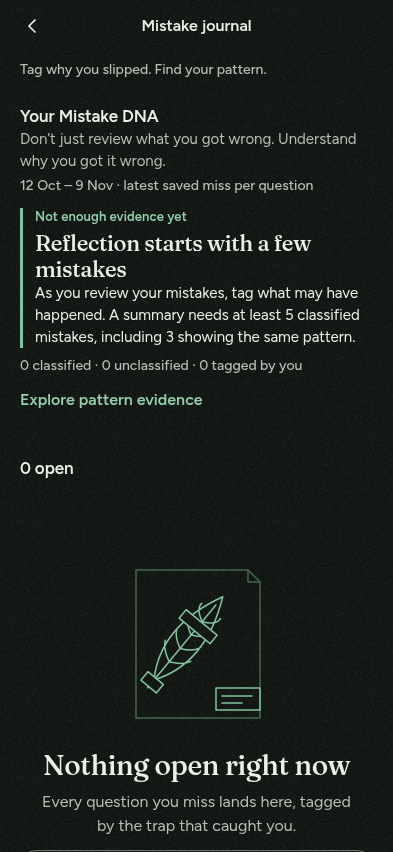
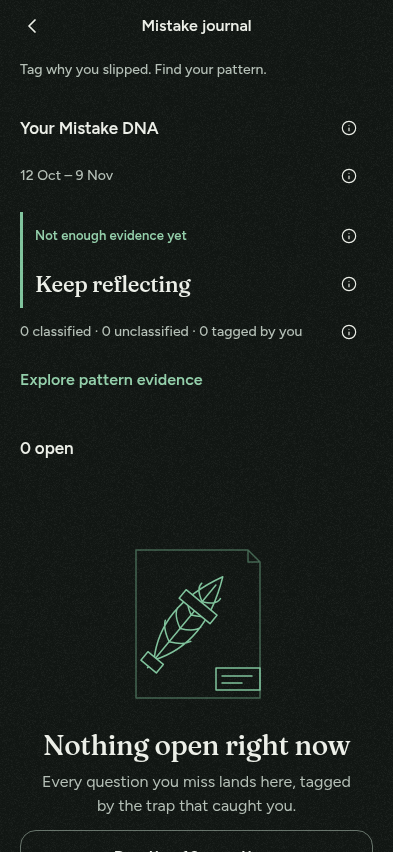
Keep Mistake DNA concise with optional information disclosures

Changed region(s): [[0.0305, 0.1221, 0.916, 0.4883], [0.0916, 0.6408, 0.916, 1.0], [0.0305, 0.5188, 0.1832, 0.5798]]

diff --git a/mobile/src/components/mistakeDNA.tsx b/mobile/src/components/mistakeDNA.tsx
@@ -4,10 +4,31 @@ import { DNA_COPY, type MistakeDNA } from '../engine/mistakeDNA';
 import { shortDate } from '../lib/format';
 import { space } from '../theme/tokens';
 import { useTheme } from '../theme/useTheme';
-import { Button, T } from './ui';
+import { Info, ICON_STROKE } from './icons';
+import { Button, IconButton, ICON_SIZE, T } from './ui';
 
-/** Counts accompany bars. No motion, fixed text heights or colour-only meaning. */
 const sourceLabel = (p: MistakeDNA['patterns'][number]) => p.observed ? 'Answer evidence' : p.pattern === 'priority' ? 'Your tags and question wording' : 'Your tags';
+
+/** Explanations stay beside their label, available to touch and screen readers. */
+function InfoLabel({ label, help, v = 'label', heading = false, color }: {
+  label: string;
+  help: string;
+  v?: 'headline' | 'title' | 'label' | 'meta' | 'caption';
+  heading?: boolean;
+  color?: string;
+}) {
+  const { c } = useTheme();
+  const [open, setOpen] = useState(false);
+  return (
+    <View>
+      <View style={{ flexDirection: 'row', alignItems: 'center', gap: space.xs }}>
+        <T v={v} color={color} accessibilityRole={heading ? 'header' : undefined} style={{ flex: 1 }}>{label}</T>
+        <IconButton label={`About ${label}`} expanded={open} onPress={() => setOpen(!open)} icon={(col) => <Info size={ICON_SIZE.inline} color={col} strokeWidth={ICON_STROKE} />} />
+      </View>
+      {open && <View accessibilityLiveRegion="polite"><T v="small" color={c.ink2} style={{ marginBottom: space.sm }}>{help}</T></View>}
+    </View>
+  );
+}
 
 export function MistakeDNASummary({ dna }: { dna: MistakeDNA }) {
   const { c } = useTheme();
@@ -16,36 +37,33 @@ export function MistakeDNASummary({ dna }: { dna: MistakeDNA }) {
   const count = (w: MistakeDNA['recent']) => w.patterns.find((p) => p.pattern === top?.pattern)?.count ?? 0;
   return (
     <View style={{ marginTop: space.xl }}>
-      <T v="headline" accessibilityRole="header">Your Mistake DNA</T>
-      <T v="small" color={c.ink2}>Don’t just review what you got wrong. Understand why you got it wrong.</T>
-      <T v="meta" style={{ marginTop: space.xs }}>{`${shortDate(dna.from)} – ${shortDate(dna.to)} · latest saved miss per question`}</T>
+      <InfoLabel label="Your Mistake DNA" v="headline" heading help="Understand patterns in your recent mistakes and find a useful next activity. These are learning clues, not a diagnosis of how you think." />
+      <InfoLabel label={`${shortDate(dna.from)} – ${shortDate(dna.to)}`} v="meta" help="The last 28 days, using each question’s latest saved miss. Repeated misses replace the earlier observation. Fixed mistakes remain in their original miss window." />
       <View style={{ marginTop: space.md, borderLeftWidth: 3, borderLeftColor: c.accent, paddingLeft: space.md }}>
-        <T v="caption" color={c.accentText}>{top ? (dna.tied ? 'One of your most common patterns' : 'A pattern worth reviewing') : 'Not enough evidence yet'}</T>
-        <T v="title" accessibilityRole="header" style={{ marginTop: space.xs }}>{top ? DNA_COPY[top.pattern].label : 'Reflection starts with a few mistakes'}</T>
-        <T v="small">{top ? DNA_COPY[top.pattern].explanation : 'As you review your mistakes, tag what may have happened. A summary needs at least 5 classified mistakes, including 3 showing the same pattern.'}</T>
-        {top && <T v="meta" style={{ marginTop: space.xs }}>{`Seen in ${top.count} of ${dna.classified} classified mistakes in these 28 days.`}</T>}
+        <InfoLabel label={top ? (dna.tied ? 'One of your most common patterns' : 'A pattern worth reviewing') : 'Not enough evidence yet'} v="caption" color={c.accentText} help="A leading pattern needs at least 5 classified mistakes, including 3 showing the same pattern. Equal counts share the lead." />
+        <InfoLabel label={top ? DNA_COPY[top.pattern].label : 'Keep reflecting'} v="title" heading help={top ? DNA_COPY[top.pattern].explanation : 'As you review your mistakes, tag what may have happened. Untagged misses count only when a recorded pick or confidence provides usable evidence.'} />
+        {top && <InfoLabel label={`${top.count} of ${dna.classified} classified mistakes`} v="meta" help="The number of distinct classified mistakes showing this pattern, out of all classified mistakes in these 28 days. This is not a share of all practice answers." />}
       </View>
-      <T v="meta" style={{ marginTop: space.sm }}>{`${dna.classified} classified · ${dna.unclassified} unclassified · ${dna.tagged} tagged by you`}</T>
+      <InfoLabel label={`${dna.classified} classified · ${dna.unclassified} unclassified · ${dna.tagged} tagged by you`} v="meta" help="Classified means a valid learner tag or usable answer evidence is available. Unclassified means neither is available. Tagged counts your reflections; a mistake may also have answer evidence." />
       <Button kind="ghost" label={expanded ? 'Hide pattern evidence' : 'Explore pattern evidence'} expanded={expanded} onPress={() => setExpanded(!expanded)} style={{ alignSelf: 'flex-start', marginLeft: -space.sm }} />
       {expanded && (
         <View>
-          <T v="label" accessibilityRole="header">Thinking-pattern breakdown</T>
-          <T v="small" color={c.ink2}>Tags are your reflections. Answer evidence describes your recorded pick or confidence, not your thought process. These are learning clues, not a diagnosis.</T>
-          <T v="meta" style={{ marginTop: space.xs }}>Each bar shows the share of classified mistakes in these 28 days. A mistake can show several patterns, so shares do not add up to 100%.</T>
+          <InfoLabel label="Thinking-pattern breakdown" heading help="Tags are your reflections. Answer evidence describes your recorded pick or confidence, not your thought process. Each bar shows the share of classified mistakes in these 28 days. A mistake can show several patterns, so shares do not add up to 100%." />
           {dna.patterns.slice(0, 5).map((p) => (
-            <View key={p.pattern} accessible accessibilityLabel={`${DNA_COPY[p.pattern].label}: ${p.count} of ${dna.classified} classified mistakes, ${p.percent} percent. ${sourceLabel(p)}.`} style={{ marginTop: space.md }}>
-              <T v="label">{DNA_COPY[p.pattern].label}</T>
-              <T v="meta">{`${p.count} of ${dna.classified} · ${p.percent}% · ${sourceLabel(p)}`}</T>
+            <View key={p.pattern} style={{ marginTop: space.sm }}>
+              <InfoLabel label={DNA_COPY[p.pattern].label} help={`${DNA_COPY[p.pattern].explanation} Source: ${sourceLabel(p)}. ${p.count} of ${dna.classified} distinct classified mistakes in these 28 days (${p.percent}%).`} />
+              <T v="meta" accessibilityLabel={`${p.count} of ${dna.classified} classified mistakes, ${p.percent} percent. ${sourceLabel(p)}.`}>{`${p.count} of ${dna.classified} · ${p.percent}% · ${sourceLabel(p)}`}</T>
               <View accessibilityElementsHidden importantForAccessibility="no-hide-descendants" style={{ height: 6, backgroundColor: c.line, marginTop: space.xs, borderRadius: 3 }}>
                 <View style={{ width: `${p.percent}%`, height: 6, backgroundColor: c.accent, borderRadius: 3 }} />
               </View>
             </View>
           ))}
-          {dna.patterns.length === 0 && <T v="small">No classified mistakes in this window yet.</T>}
-          <T v="label" accessibilityRole="header" style={{ marginTop: space.lg }}>Progress over time</T>
-          <T v="small">{dna.trend === 'insufficient' ? 'There isn’t enough comparable evidence to show a trend yet. Each 14-day window needs at least 5 classified mistakes.' : `${top ? DNA_COPY[top.pattern].label : 'This pattern'} appeared ${dna.trend === 'less' ? 'less often' : dna.trend === 'more' ? 'more often' : 'at a similar rate'} among your recent classified mistakes.`}</T>
-          {top && <T v="meta" style={{ marginTop: space.xs }}>{`Recent 14 days: ${count(dna.recent)} of ${dna.recent.classified} classified mistakes. Previous 14 days: ${count(dna.previous)} of ${dna.previous.classified}.`}</T>}
-          <T v="meta" style={{ marginTop: space.xs }}>This compares mistakes, not all practice answers or mastery. Changes within 10 percentage points are called similar. Question mix and which mistakes you tag can change these shares. Repeated misses replace the question’s earlier observation. Fixed mistakes remain in their original miss window. Untagged misses count only when answer evidence is available.</T>
+          {dna.patterns.length === 0 && <T v="small">No classified mistakes yet.</T>}
+          <View style={{ marginTop: space.lg }}>
+            <InfoLabel label="Progress over time" heading help="Compares the same pattern’s share of classified mistakes in the recent 14 days with the previous 14 days. Each window needs at least 5 classified mistakes. Changes within 10 percentage points are called similar. This is not a measure of mastery: question mix and which mistakes you tag can change these shares." />
+          </View>
+          <T v="small">{dna.trend === 'insufficient' ? 'More evidence needed' : `${top ? DNA_COPY[top.pattern].label : 'Pattern'}: ${dna.trend === 'less' ? 'less frequent recently' : dna.trend === 'more' ? 'more frequent recently' : 'similar recently'}`}</T>
+          {top && <InfoLabel label={`Recent: ${count(dna.recent)} of ${dna.recent.classified} · Previous: ${count(dna.previous)} of ${dna.previous.classified}`} v="meta" help={`${DNA_COPY[top.pattern].label}: ${count(dna.recent)} of ${dna.recent.classified} classified mistakes in the recent 14 days; ${count(dna.previous)} of ${dna.previous.classified} in the preceding 14 days. These counts describe retained mistakes, not all practice answers.`} />}
         </View>
       )}
     </View>

diff --git a/mobile/src/__tests__/mistake-dna-screen.test.tsx b/mobile/src/__tests__/mistake-dna-screen.test.tsx
@@ -84,7 +84,6 @@ it.each(['light', 'dark'] as const)('shows accessible evidence and real remediat
   press('Drill it: Canopy Call');
   expect(router.push).toHaveBeenCalledWith('/game/canopy');
   act(() => { useSettings.setState({ theme: 'light' }); });
-  Dimensions.set({ window: w, screen: w });
 });
 it('keeps a next action and study notes for corrected knowledge gaps', () => {
   seed(12);
@@ -113,4 +112,18 @@ it('handles certification reset and old-only evidence honestly', () => {
   act(() => { useProgress.getState().resetCert('cisa'); });
   expect(text()).toContain('0 classified');
   expect(text()).toContain('Nothing open right now');
+});
+it('keeps explanations behind labelled information buttons', () => {
+  seed(50);
+  expect(text()).not.toContain('These are learning clues, not a diagnosis');
+  press('About Your Mistake DNA');
+  expect(text()).toContain('These are learning clues, not a diagnosis');
+  press('About Your Mistake DNA');
+  expect(text()).not.toContain('These are learning clues, not a diagnosis');
+  press('Explore pattern evidence');
+  expect(text()).not.toContain('shares do not add up to 100%');
+  press('About Thinking-pattern breakdown');
+  expect(text()).toContain('shares do not add up to 100%');
+  press('About Progress over time');
+  expect(text()).toContain('Each window needs at least 5 classified mistakes');
 });

diff --git a/design-notes/mistake-dna/README.md b/design-notes/mistake-dna/README.md
@@ -4,6 +4,7 @@ Synthetic QA data only. Screenshots are browser renderings at 393 × 852; enlarg
 
 - `light-journal.png`, `dark-journal.png`: integrated journal summary and existing remediation.
 - `light-evidence.png`, `dark-evidence.png`: provenance and overlapping percentages.
+- `light-info.png`, `dark-info.png`: an opened information control with the complete explanation.
 - `light-trend.png`, `dark-trend.png`: both sample windows and interpretation limits.
 - `light-large-text.png`, `dark-large-text.png`: enlarged-text wrapping with no horizontal viewport overflow.
 - `light-empty.png`, `dark-empty.png`: honest empty summary and retained journal empty state.
@@ -51,11 +52,13 @@ Android export is a local compilation check only; no Android package was built, 
 - `design-notes/mistake-dna/README.md`
 - `design-notes/mistake-dna/dark-empty.png`
 - `design-notes/mistake-dna/dark-evidence.png`
+- `design-notes/mistake-dna/dark-info.png`
 - `design-notes/mistake-dna/dark-journal.png`
 - `design-notes/mistake-dna/dark-large-text.png`
 - `design-notes/mistake-dna/dark-trend.png`
 - `design-notes/mistake-dna/light-empty.png`
 - `design-notes/mistake-dna/light-evidence.png`
+- `design-notes/mistake-dna/light-info.png`
 - `design-notes/mistake-dna/light-journal.png`
 - `design-notes/mistake-dna/light-large-text.png`
 - `design-notes/mistake-dna/light-trend.png`
@@ -78,3 +81,11 @@ Android export is a local compilation check only; no Android package was built, 
 The owner asked for screenshots and an emulator update. This task runs in a cloud Linux workspace; there is no `adb`, Android SDK, emulator process or connected device. The coordinating chat “Coordinate KaiSip feature development” runs locally on the owner’s Mac and can perform that update from its existing Android development setup.
 
 Use branch `codex/kaisip-mistake-dna` / PR #240 in an isolated local checkout. No native dependencies or configuration changed, so the existing compatible KaiSip development client can receive the branch with `npx expo start --dev-client --android` from `mobile/`, following `docs/mobile/RUN_ON_ANDROID_EMULATOR.md`. Coordinate with the Lab branch before choosing which feature(s) to show. Keep the existing emulator app data: do not uninstall, clear storage, reset progress, or import these synthetic fixtures into a tester profile. The cloud task has **not** updated the emulator. This is a local development handoff, not production release authorization.
+
+## Compact caption refinement
+
+At the owner’s request, all DNA explanatory copy now opens from adjacent information icons rather than filling the screen. Essential counts and evidence sources stay visible. The controls have 48-point targets, distinct spoken labels and expanded state; help follows the label in reading order. Trend text still names the specific pattern. Independent UX re-review of light/dark, large-text, collapsed and help-open views found no remaining blocking issues. The refreshed synthetic screenshot run had zero page errors and no horizontal overflow. A regression test verifies help is hidden initially and opens/closes on demand.
+
+Android export and cloud-OFF/size guards passed again (11,851,499-byte bundle). This is a UI-only refinement; no analytics, progress or cloud behavior changed.
+
+Compact-caption verification: `npm run check` passed with 357 suites / 7,279 tests, 2 existing skips; the focused disclosure tests also passed (5/5).

diff --git a/docs/mobile/MISTAKE_DNA.md b/docs/mobile/MISTAKE_DNA.md
@@ -6,6 +6,8 @@ Review scope: Mistake Journal only, independently based on main `5382a2ee95fa824
 
 Slip Coach still provides the existing tag-based all-history pattern for other consumers. The journal now adds a recent evidence summary, provenance-labelled breakdown, honest classified/unclassified coverage, two-window comparison, related notes and a fresh-practice path. Its learner-facing copy describes observations and possible reflection points rather than diagnosing a thinking style.
 
+Explanatory captions are collapsed by default behind labelled “i” controls. Counts, source labels and the trend’s subject stay visible; sample rules, methodology and educational explanations remain available on demand with expanded/collapsed accessibility state.
+
 ## Architecture and calculations
 
 - `engine/mistakeDNA.ts` is pure TypeScript. The screen joins the selected certification’s saved mistakes to its existing question pack, then passes the certification and an explicit clock to the engine. All processing is local.
